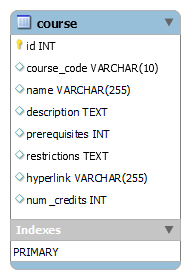
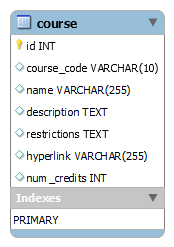
reconfigure table relationship (remove prereq)

Changed region(s): [[0.0287, 0.0283, 0.977, 0.9919]]

diff --git a/database/database_documentation.md b/database/database_documentation.md
@@ -51,8 +51,10 @@ Note, form four follows the conventional definition of v (that is, an inclusive 
 
 The first row is the fields and the second is an example record. Datatypes and incrementation is included for specificity.
 
-| id : INT , AUTO_INCREMENT | course_code : VARCHAR(10) | name : VARCHAR(255)                 | description : TEXT    | prerequisites : INT                                                                                                                                                                                                                                                                                                                                                                                          | restrictions : TEXT                            | hyperlink : VARCHAR(255)            | num_credits : INT |
-| ------------------------- | ------------------------- | ----------------------------------- | --------------------- | ------------------------------------------------------------------------------------------------------------------------------------------------------------------------------------------------------------------------------------------------------------------------------------------------------------------------------------------------------------------------------------------------------------ | ---------------------------------------------- | ----------------------------------- | ----------------- |
-| 5                         | "CMPT 370"                | "Intermediate Software Engineering" | _needs to be defined_ | "Principles and techniques for developing software combined with the practical experience of creating a mid-size software system as a member of a software development team. Includes: teamwork; projects, planning and process; users and requirements; use cases; modeling; quality; software architecture; testing; GUI design, design principles, patterns and implementation; ethics; professionalism." | "Restricted to students in Applied Computing." | https://catalogue.usask.ca/CMPT-370 | 3                 |
+Perhaps unintuitively, there is no column for a foreign key to a prerequisite record. While I tried this method--storing an entry for a prerequisite in the prerequite table corresponding to each course--initially, it could not handle the relational complexity of the prerequisite definition above. Thus, I have configured a more abtrast solution; you can see it defined in writing and in the tables for the prerequisite table below.
+
+| id : INT , AUTO_INCREMENT | course_code : VARCHAR(10) | name : VARCHAR(255)                 | description : TEXT                                                                                                                                                                                                                                                                                                                                                                                           | restrictions : TEXT                            | hyperlink : VARCHAR(255)            | num_credits : INT |
+| ------------------------- | ------------------------- | ----------------------------------- | ------------------------------------------------------------------------------------------------------------------------------------------------------------------------------------------------------------------------------------------------------------------------------------------------------------------------------------------------------------------------------------------------------------ | ---------------------------------------------- | ----------------------------------- | ----------------- |
+| 5                         | "CMPT 370"                | "Intermediate Software Engineering" | "Principles and techniques for developing software combined with the practical experience of creating a mid-size software system as a member of a software development team. Includes: teamwork; projects, planning and process; users and requirements; use cases; modeling; quality; software architecture; testing; GUI design, design principles, patterns and implementation; ethics; professionalism." | "Restricted to students in Applied Computing." | https://catalogue.usask.ca/CMPT-370 | 3                 |
 
 ![ERR for course table](course_table.png)
